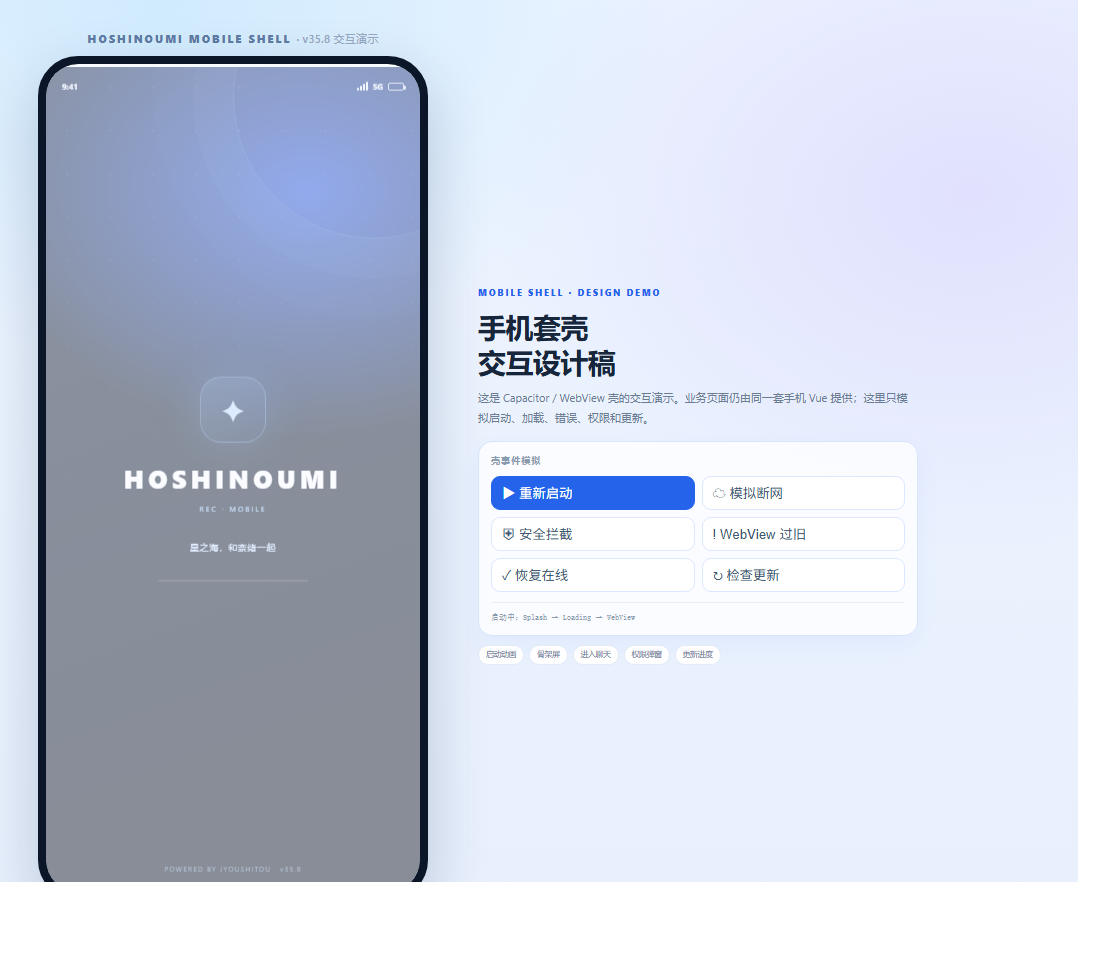
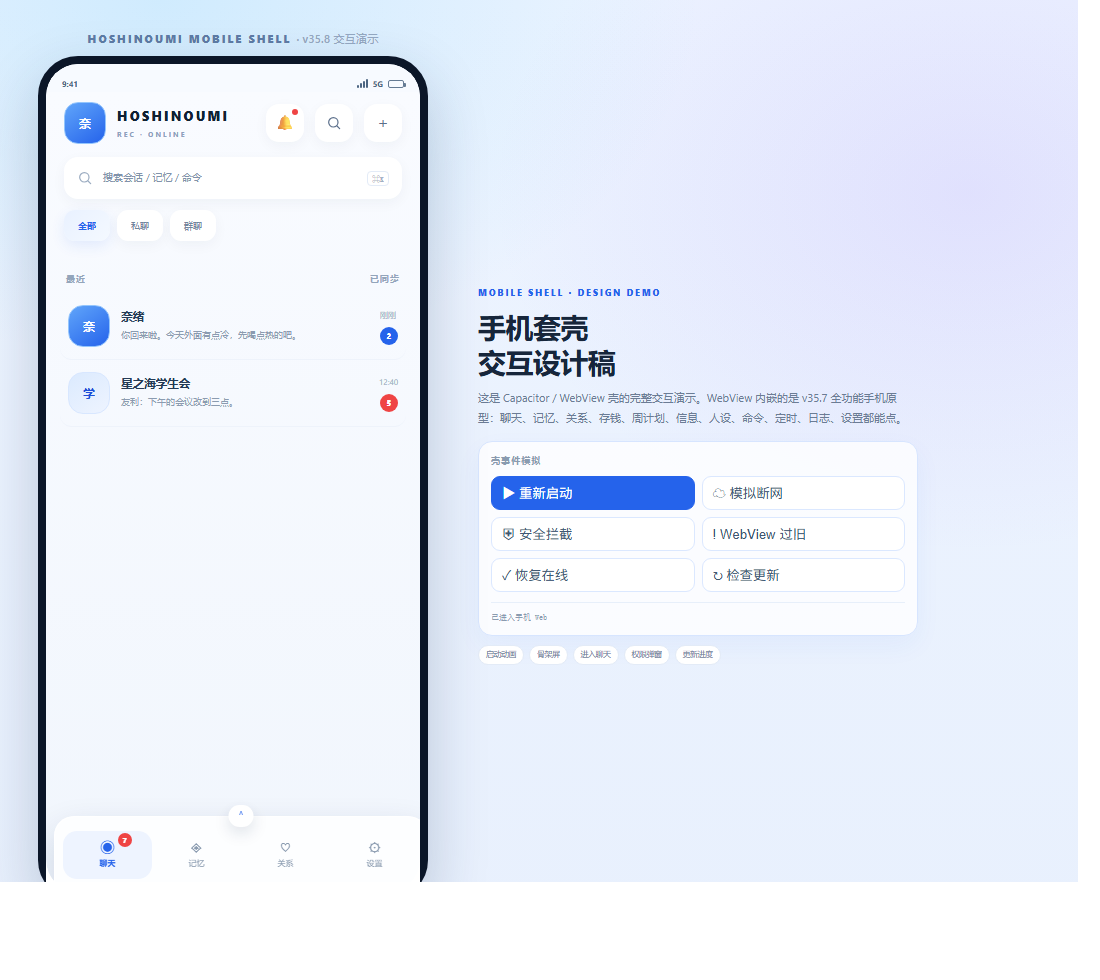
design(v35.8): 套壳内嵌 v35.7 全功能交互原型

Changed region(s): [[0.0309, 0.0612, 0.4018, 0.9184], [0.4327, 0.398, 0.8345, 0.4286], [0.4636, 0.6122, 0.4945, 0.6429]]

diff --git a/docs/design/v35/mobile/hoshinoumi-mobile-shell-v35.8-demo.html b/docs/design/v35/mobile/hoshinoumi-mobile-shell-v35.8-demo.html
@@ -20,6 +20,7 @@ body{margin:0;min-height:100vh;background:radial-gradient(900px 600px at 15% 0%,
 .log{margin-top:10px;border-top:1px solid #e7effa;padding-top:8px;font:8px ui-monospace,monospace;color:#8a9bb0;min-height:16px;line-height:1.6}
 .flow{display:flex;gap:5px;flex-wrap:wrap;margin-top:9px}.flow span{font-size:7.5px;color:#71859d;border:1px solid #e3ebf7;background:#fff;border-radius:10px;padding:3px 7px}
 /* scenes */
+.webview{flex:1;width:100%;border:0;min-height:0;background:#f7faff;display:block}
 .scene{position:absolute;inset:0;display:none;flex-direction:column;background:#f7faff}.scene.on{display:flex;animation:scene-in .28s cubic-bezier(.2,.8,.2,1) both}
 @keyframes scene-in{from{opacity:0;transform:translateY(5px)}to{opacity:1;transform:none}}
 .statusbar{height:28px;flex:none;display:flex;align-items:flex-end;justify-content:space-between;padding:0 16px 2px;font-size:8px;font-weight:750;color:#4c6582;position:relative;z-index:5}.statusbar.dark{color:#eaf4ff}.statusbar .right{display:flex;align-items:center;gap:5px}.sig{display:flex;align-items:flex-end;gap:1px}.sig i{display:block;width:2px;background:currentColor;border-radius:1px}.sig i:nth-child(1){height:3px}.sig i:nth-child(2){height:5px}.sig i:nth-child(3){height:7px}.sig i:nth-child(4){height:9px}.battery{width:16px;height:8px;border:1px solid currentColor;border-radius:2px;position:relative;opacity:.85}.battery:after{content:"";position:absolute;right:-3px;top:2px;width:2px;height:4px;background:currentColor;border-radius:0 1px 1px 0}
@@ -82,17 +83,10 @@ body{margin:0;min-height:100vh;background:radial-gradient(900px 600px at 15% 0%,
         <div class="load-note">正在打开 Hoshinoumi…</div>
       </section>
 
-      <!-- WEB -->
+      <!-- WEB / 完整手机应用原型 -->
       <section class="scene" id="scene-web">
         <div class="statusbar"><span>9:41</span><div class="right"><span class="sig"><i></i><i></i><i></i><i></i></span><span>5G</span><div class="battery"></div></div></div>
-        <div class="app-head"><div class="app-mark">✦</div><div class="app-name">HOSHINOUMI<small>REC · ONLINE</small></div><span class="pill ok" id="net-pill">在线</span></div>
-        <div class="web-head"><h2>聊天</h2><p>QQ 会话 · 2 个</p><div class="web-search">⌕ 搜索会话 / 记忆 / 命令</div><div class="chips"><span class="chip on">全部</span><span class="chip">私聊</span><span class="chip">群聊</span></div></div>
-        <div class="conv-list"><div class="sec"><span>最近</span><span>已同步</span></div>
-          <div class="conv" onclick="openChat()"><div class="av bot">奈</div><div class="copy"><b>奈绪</b><small>你回来啦。今天外面有点冷，先喝点热的吧。</small></div><div class="end"><span class="tm">刚刚</span><span class="badge">2</span></div></div>
-          <div class="conv" onclick="openGroupChat()"><div class="av">学</div><div class="copy"><b>星之海学生会</b><small>友利：下午的会议改到三点。</small></div><div class="end"><span class="tm">12:40</span><span class="badge">5</span></div></div>
-        </div>
-        <div class="web-tools"><button onclick="openModal('mic')">🎙 语音</button><button onclick="openModal('photo')">▧ 图片</button><button onclick="openModal('update')">↻ 更新</button></div>
-        <div class="tabbar"><div class="tab on" onclick="toast('当前已在聊天')"><span class="ic">◉</span>聊天</div><div class="tab" onclick="toast('记忆页由同一套 Web 页面提供')"><span class="ic">◈</span>记忆</div><div class="tab" onclick="toast('关系页由同一套 Web 页面提供')"><span class="ic">♡</span>关系</div><div class="tab" onclick="toast('设置页由同一套 Web 页面提供')"><span class="ic">⚙</span>设置</div></div>
+        <iframe class="webview" id="appFrame" src="hoshinoumi-mobile-v35.7-demo.html?embed=1&screen=chats" title="Hoshinoumi 手机 Web"></iframe>
       </section>
 
       <!-- OFFLINE -->
@@ -166,7 +160,7 @@ body{margin:0;min-height:100vh;background:radial-gradient(900px 600px at 15% 0%,
   <aside class="side">
     <div class="kicker">MOBILE SHELL · DESIGN DEMO</div>
     <h1>手机套壳<br>交互设计稿</h1>
-    <p>这是 Capacitor / WebView 壳的交互演示。业务页面仍由同一套手机 Vue 提供；这里只模拟启动、加载、错误、权限和更新。</p>
+    <p>这是 Capacitor / WebView 壳的完整交互演示。WebView 内嵌的是 v35.7 全功能手机原型：聊天、记忆、关系、存钱、周计划、信息、人设、命令、定时、日志、设置都能点。</p>
     <div class="panel"><h3>壳事件模拟</h3><div class="controls">
       <button class="primary" onclick="boot()">▶ 重新启动</button>
       <button onclick="go('offline')">☁ 模拟断网</button>

diff --git a/docs/design/v35/mobile/hoshinoumi-mobile-v35.7-demo.html b/docs/design/v35/mobile/hoshinoumi-mobile-v35.7-demo.html
@@ -183,10 +183,21 @@ body{margin:0;min-height:100vh;background:radial-gradient(900px 600px at 20% 0%,
 .week-chips{display:flex;gap:4px;flex-wrap:wrap;margin-bottom:8px}.week-chips button{width:28px;height:25px;border:1px solid #e3ebf7;background:#fbfdff;border-radius:7px;font:8px inherit;color:#71859d}.week-chips button.on{background:#2563eb;border-color:#2563eb;color:#fff}
 .cron-preview{border-radius:9px;background:#f4f9ff;border:1px dashed #cfe0f7;padding:8px 9px;font-size:8px;color:#5f7da2;margin-bottom:11px}
 .cron-actions{display:flex;align-items:stretch;gap:7px}.cron-actions button{flex:1 1 0;height:40px;min-height:40px;margin:0;padding:0 10px;border:1px solid #dbe8ff;border-radius:9px;background:#fff;color:#2563eb;font:9px/1 inherit;display:flex;align-items:center;justify-content:center;box-sizing:border-box;box-shadow:none;vertical-align:middle}.cron-actions button.primary{background:#2563eb;border-color:#2563eb;color:#fff;font-weight:700}
+
+/* embed: 只作为 WebView 内容被套壳 demo 使用 */
+body.embed{background:#f7faff;overflow:hidden;min-height:100vh}
+body.embed .demo-page{display:block;padding:0;max-width:none;min-height:100dvh}
+body.embed .demo-stage{display:block;max-width:none}
+body.embed .demo-title,body.embed .demo-side,body.embed .demo-caption{display:none!important}
+body.embed .phone{width:100vw;height:100dvh;border:0;border-radius:0;box-shadow:none;background:transparent;padding:0}
+body.embed .screen{border-radius:0;height:100%;background:#f7faff}
+body.embed .island,body.embed .statusbar,body.embed .browser-top,body.embed .browser-progress{display:none!important}
+body.embed #view{height:100dvh!important}
 </style>
 <link rel="stylesheet" href="mobile-native.css">
 </head>
 <body>
+<script>if(new URLSearchParams(location.search).has('embed'))document.body.classList.add('embed')</script>
 <div class="demo-page">
   <div class="demo-stage">
     <div class="demo-title">HOSHINOUMI MOBILE <span>· v35.7 交互演示</span></div>
@@ -803,6 +814,7 @@ const fallback = window.innerWidth <= 860 ? 'chats' : 'login'
 go(screens[initial] ? initial : fallback)
 // 有提醒就直接弹出；登录页不弹
 setTimeout(() => {
+  if (document.body.classList.contains('embed')) return
   if (reminderHandled) return
   if (currentScreen === 'login') return
   if (document.querySelector('.notice-popup')) return
